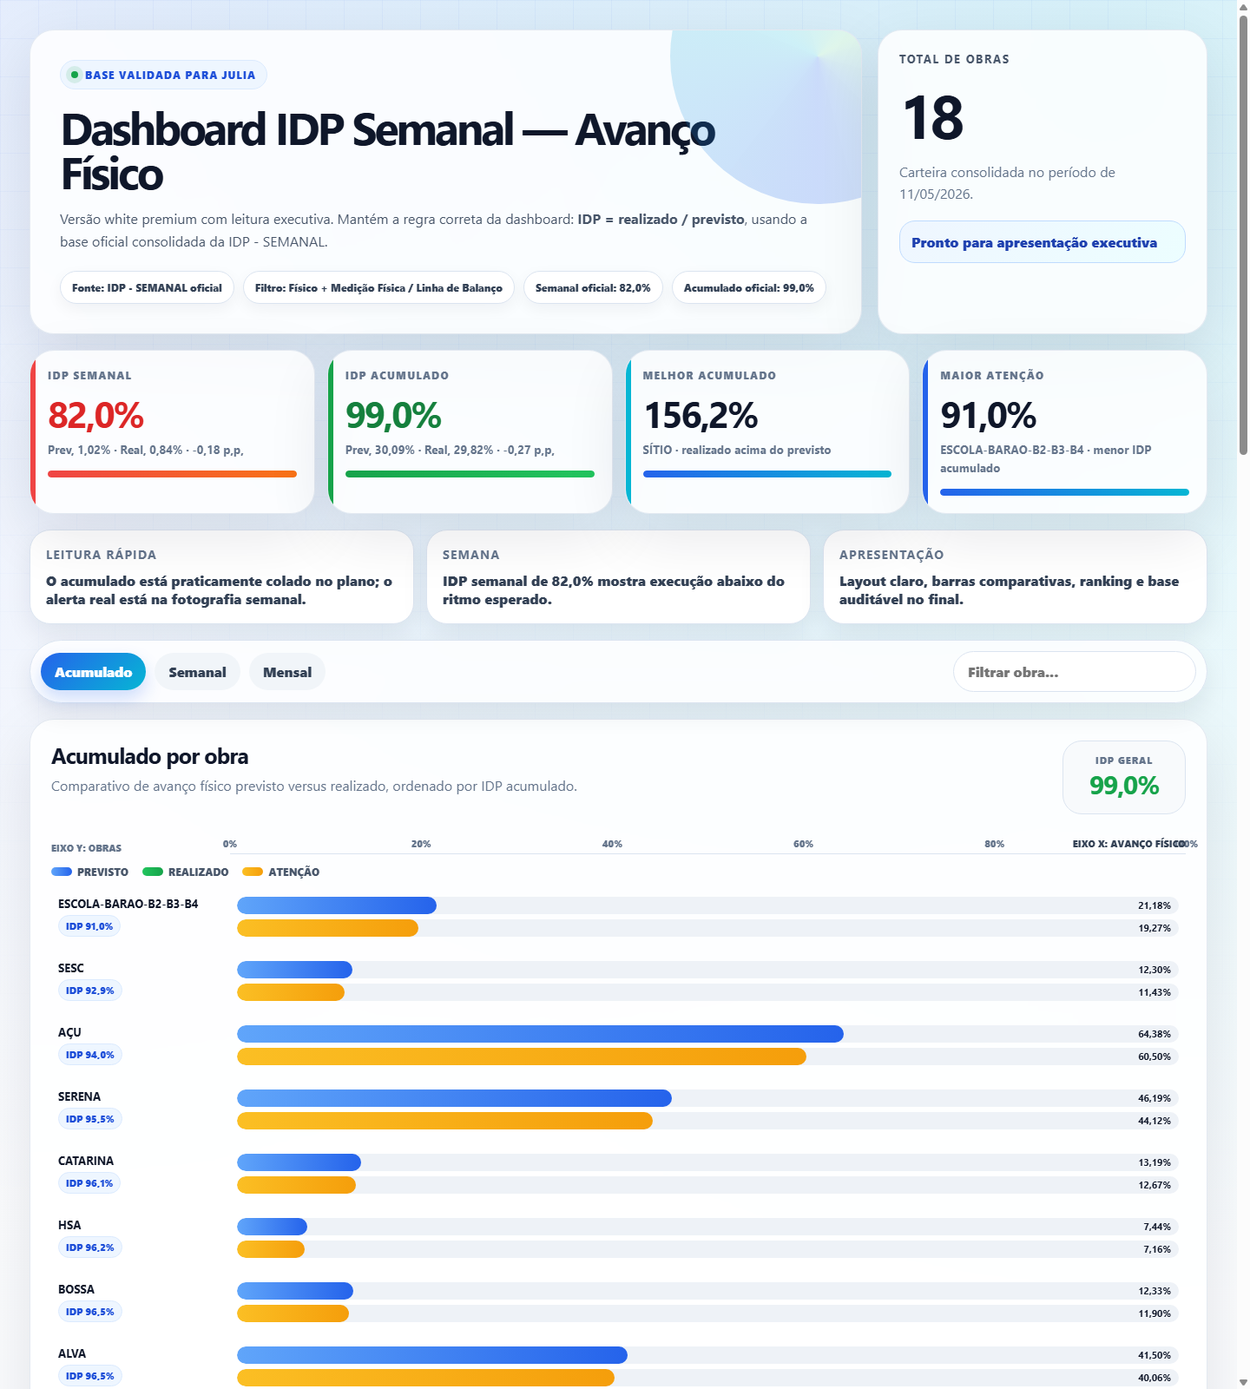
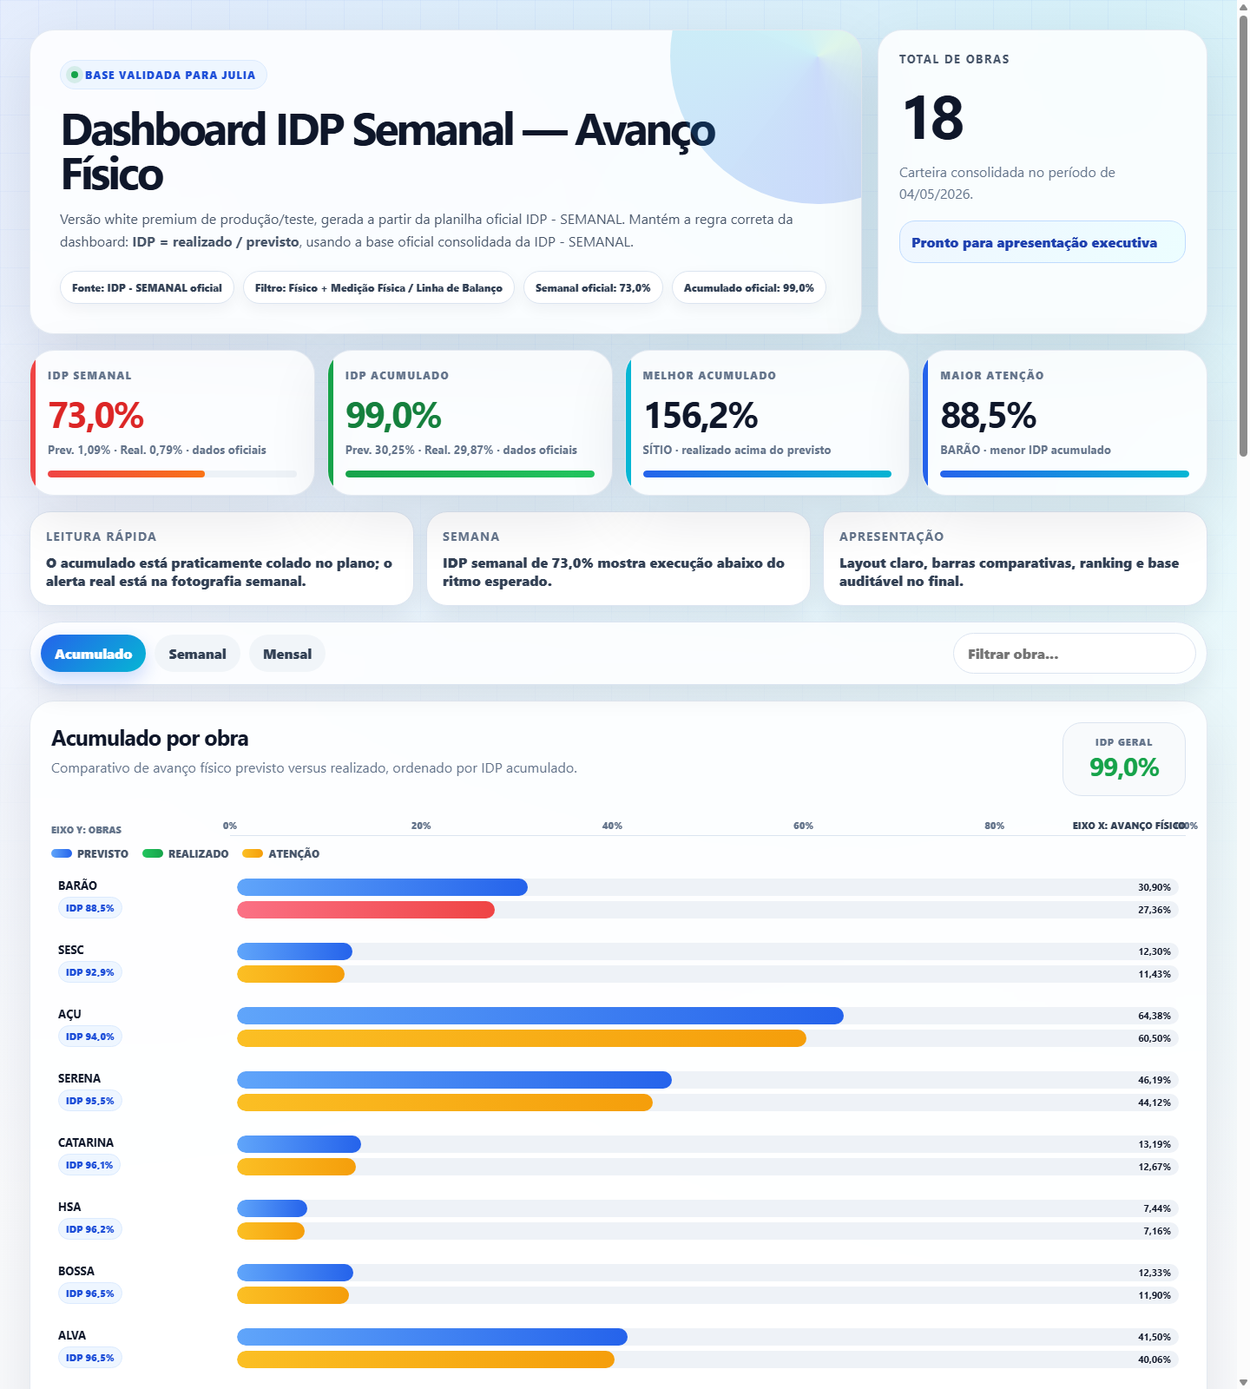
Restaura dashboard validado de 04-05

diff --git a/index.html b/index.html
@@ -10,27 +10,25 @@
 </head>
 <body>
 <div class="wrap">
-<section class="hero"><div class="glass hero-main"><span class="eyebrow"><i class="dot"></i> Base validada para Julia</span><h1>Dashboard IDP Semanal — Avanço Físico</h1><p class="lead">Versão white premium com leitura executiva. Mantém a regra correta da dashboard: <b>IDP = realizado / previsto</b>, usando a base oficial consolidada da IDP - SEMANAL.</p><div class="meta"><span>Fonte: IDP - SEMANAL oficial</span><span>Filtro: Físico + Medição Física / Linha de Balanço</span><span>Semanal oficial: 82,0%</span><span>Acumulado oficial: 99,0%</span></div></div><article class="score-card"><h3>Total de obras</h3><strong>18</strong><p>Carteira consolidada no período de 11/05/2026.</p><div class="seal">Pronto para apresentação executiva</div></article></section>
-<section class="kpis"><article class="kpi bad"><div class="label">IDP Semanal</div><strong>82,0%</strong><small>Prev, 1,02% · Real, 0,84% · -0,18 p,p,</small><div class="spark"><i style="width:82,0%"></i></div></article><article class="kpi ok"><div class="label">IDP Acumulado</div><strong>99,0%</strong><small>Prev, 30,09% · Real, 29,82% · -0,27 p,p,</small><div class="spark"><i style="width:99,0%"></i></div></article><article class="kpi neutral"><div class="label">Melhor acumulado</div><strong>156,2%</strong><small>SÍTIO · realizado acima do previsto</small><div class="spark"><i style="width:100%"></i></div></article><article class="kpi"><div class="label">Maior atenção</div><strong>91,0%</strong><small>ESCOLA-BARAO-B2-B3-B4 · menor IDP acumulado</small><div class="spark"><i style="width:91,0%"></i></div></article></section>
-<section class="insight"><div class="mini"><h3>Leitura rápida</h3><p>O acumulado está praticamente colado no plano; o alerta real está na fotografia semanal.</p></div><div class="mini"><h3>Semana</h3><p>IDP semanal de 82,0% mostra execução abaixo do ritmo esperado.</p></div><div class="mini"><h3>Apresentação</h3><p>Layout claro, barras comparativas, ranking e base auditável no final.</p></div></section>
+<section class="hero"><div class="glass hero-main"><span class="eyebrow"><i class="dot"></i> Base validada para Julia</span><h1>Dashboard IDP Semanal — Avanço Físico</h1><p class="lead">Versão white premium de produção/teste, gerada a partir da planilha oficial IDP - SEMANAL. Mantém a regra correta da dashboard: <b>IDP = realizado / previsto</b>, usando a base oficial consolidada da IDP - SEMANAL.</p><div class="meta"><span>Fonte: IDP - SEMANAL oficial</span><span>Filtro: Físico + Medição Física / Linha de Balanço</span><span>Semanal oficial: 73,0%</span><span>Acumulado oficial: 99,0%</span></div></div><article class="score-card"><h3>Total de obras</h3><strong>18</strong><p>Carteira consolidada no período de 04/05/2026.</p><div class="seal">Pronto para apresentação executiva</div></article></section>
+<section class="kpis"><article class="kpi bad"><div class="label">IDP Semanal</div><strong>73,0%</strong><small>Prev. 1,09% · Real. 0,79% · dados oficiais</small><div class="spark"><i style="width:63%"></i></div></article><article class="kpi ok"><div class="label">IDP Acumulado</div><strong>99,0%</strong><small>Prev. 30,25% · Real. 29,87% · dados oficiais</small><div class="spark"><i style="width:100%"></i></div></article><article class="kpi neutral"><div class="label">Melhor acumulado</div><strong>156,2%</strong><small>SÍTIO · realizado acima do previsto</small><div class="spark"><i style="width:100%"></i></div></article><article class="kpi"><div class="label">Maior atenção</div><strong>88,5%</strong><small>BARÃO · menor IDP acumulado</small><div class="spark"><i style="width:88,5%"></i></div></article></section>
+<section class="insight"><div class="mini"><h3>Leitura rápida</h3><p>O acumulado está praticamente colado no plano; o alerta real está na fotografia semanal.</p></div><div class="mini"><h3>Semana</h3><p>IDP semanal de 73,0% mostra execução abaixo do ritmo esperado.</p></div><div class="mini"><h3>Apresentação</h3><p>Layout claro, barras comparativas, ranking e base auditável no final.</p></div></section>
 <div class="controls"><button class="active" data-view="ac" onclick="showView('ac')">Acumulado</button><button data-view="sem" onclick="showView('sem')">Semanal</button><button data-view="mes" onclick="showView('mes')">Mensal</button><input placeholder="Filtrar obra..." oninput="filterObras(this.value)"></div>
 <section class="panel view" id="ac"><div class="panel-head"><div><h2>Acumulado por obra</h2><p>Comparativo de avanço físico previsto versus realizado, ordenado por IDP acumulado.</p></div><div class="pillbox ok"><span>IDP geral</span><b>99,0%</b></div></div><div class="axis"><b>Eixo Y: obras</b><div><span style="left:0%">0%</span><span style="left:20%">20%</span><span style="left:40%">40%</span><span style="left:60%">60%</span><span style="left:80%">80%</span><span style="left:100%">100%</span><em>Eixo X: avanço físico</em></div></div><div class="legend"><span><i class="prev"></i>Previsto</span><span><i class="real ok"></i>Realizado</span><span><i class="real warn"></i>Atenção</span></div><div class="bars-list" id="acBars"></div></section>
-<section class="panel view hidden" id="sem"><div class="panel-head"><div><h2>Semanal por obra</h2><p>Fotografia da semana em 11/05/2026. Conta: realizado / previsto.</p></div><div class="pillbox bad"><span>IDP geral</span><b>82,0%</b></div></div><div class="axis"><b>Eixo Y: obras</b><div><span style="left:0%">0%</span><span style="left:20%">2%</span><span style="left:40%">3%</span><span style="left:60%">5%</span><span style="left:80%">6%</span><span style="left:100%">8%</span><em>Eixo X: avanço físico</em></div></div><div class="legend"><span><i class="prev"></i>Previsto</span><span><i class="real bad"></i>Realizado</span><span><i class="real ok"></i>Acima do previsto</span></div><div class="bars-list" id="semBars"></div></section>
+<section class="panel view hidden" id="sem"><div class="panel-head"><div><h2>Semanal por obra</h2><p>Fotografia da semana em 04/05/2026. Conta: realizado / previsto.</p></div><div class="pillbox bad"><span>IDP geral</span><b>63,0%</b></div></div><div class="axis"><b>Eixo Y: obras</b><div><span style="left:0%">0%</span><span style="left:20%">2%</span><span style="left:40%">3%</span><span style="left:60%">5%</span><span style="left:80%">6%</span><span style="left:100%">8%</span><em>Eixo X: avanço físico</em></div></div><div class="legend"><span><i class="prev"></i>Previsto</span><span><i class="real bad"></i>Realizado</span><span><i class="real ok"></i>Acima do previsto</span></div><div class="bars-list" id="semBars"></div></section>
 <section class="panel view hidden" id="mes"><div class="panel-head"><div><h2>Mensal por obra</h2><p>Visão mensal consolidada da base oficial.</p></div><div class="pillbox bad"><span>IDP geral</span><b>15,0%</b></div></div><div class="axis"><b>Eixo Y: obras</b><div><span style="left:0%">0%</span><span style="left:20%">5%</span><span style="left:40%">10%</span><span style="left:60%">14%</span><span style="left:80%">19%</span><span style="left:100%">24%</span><em>Eixo X: avanço físico</em></div></div><div class="legend"><span><i class="prev"></i>Previsto</span><span><i class="real bad"></i>Realizado</span></div><div class="bars-list" id="mesBars"></div></section>
-<section class="grid2"><section class="panel"><div class="panel-head"><div><h2>Evolução do IDP semanal</h2><p>Histórico oficial limitado às últimas 6 semanas, para leitura mais limpa do eixo X/Y.</p></div><div class="pillbox"><span>Último</span><b>119,7%</b><small>+41,40 p,p,</small></div></div><svg class="line" viewBox="0 0 930 318" role="img" aria-label="Evolução do IDP semanal nas últimas 6 semanas"><defs><linearGradient id="gradLine" x1="0" x2="1"><stop offset="0" stop-color="#2563eb"/><stop offset=".55" stop-color="#06b6d4"/><stop offset="1" stop-color="#16a34a"/></linearGradient><linearGradient id="areaGrad" x1="0" y1="0" x2="0" y2="1"><stop offset="0" stop-color="#93c5fd" stop-opacity=".45"/><stop offset="1" stop-color="#93c5fd" stop-opacity="0"/></linearGradient></defs><g class="grid"><line x1="58" x2="900" y1="68" y2="68"/><text x="12" y="72">136%</text><line x1="58" x2="900" y1="112" y2="112"/><text x="12" y="116">102%</text><line x1="58" x2="900" y1="156" y2="156"/><text x="12" y="160">68%</text><line x1="58" x2="900" y1="200" y2="200"/><text x="12" y="204">34%</text><line x1="58" x2="900" y1="244" y2="244"/><text x="12" y="248">0%</text></g><polygon class="area" points="58,246 58.0,110.7 226.4,133.8 394.8,68.0 563.2,119.9 731.6,143.4 900.0,89.1 900,246"/><polyline points="58.0,110.7 226.4,133.8 394.8,68.0 563.2,119.9 731.6,143.4 900.0,89.1"/><circle cx="58.0" cy="110.7" r="6"><title>06/04: 103,2%</title></circle><circle cx="226.4" cy="133.8" r="6"><title>13/04: 85,5%</title></circle><circle cx="394.8" cy="68.0" r="6"><title>20/04: 135,8%</title></circle><circle cx="563.2" cy="119.9" r="6"><title>27/04: 96,1%</title></circle><circle cx="731.6" cy="143.4" r="6"><title>04/05: 78,3%</title></circle><circle cx="900.0" cy="89.1" r="6"><title>11/05: 119,7%</title></circle><g class="xlabels"><text x="58.0" y="292">06/04</text><text x="226.4" y="292">13/04</text><text x="394.8" y="292">20/04</text><text x="563.2" y="292">27/04</text><text x="731.6" y="292">04/05</text><text x="900.0" y="292">11/05</text></g><text class="axis-title" x="760" y="309">Eixo X: últimas 6 semanas</text><text class="axis-title" x="8" y="24">Eixo Y: IDP</text></svg></section><section class="panel"><h2>Ranking — pontos de atenção</h2><p style="margin-bottom:14px">Menores IDPs acumulados para acompanhamento.</p><div class="ranks"><div class="rank warn"><span>#1</span><div><b>NAVSHIP</b><small>IDP 89,7% · Prev. 41,4% / Real. 37,2%</small></div></div><div class="rank warn"><span>#2</span><div><b>SESC</b><small>IDP 93,0% · Prev. 12,0% / Real. 11,1%</small></div></div><div class="rank warn"><span>#3</span><div><b>AÇU</b><small>IDP 95,4% · Prev. 63,0% / Real. 60,1%</small></div></div><div class="rank warn"><span>#4</span><div><b>SERENA</b><small>IDP 96,1% · Prev. 45,0% / Real. 43,2%</small></div></div><div class="rank warn"><span>#5</span><div><b>BARÃO</b><small>IDP 96,4% · Prev. 100,0% / Real. 96,4%</small></div></div><div class="rank warn"><span>#6</span><div><b>BOSSA</b><small>IDP 97,0% · Prev. 11,9% / Real. 11,5%</small></div></div></div></section></section>
+<section class="grid2"><section class="panel"><div class="panel-head"><div><h2>Evolução do IDP semanal</h2><p>Histórico oficial limitado às últimas 6 semanas, para leitura mais limpa do eixo X/Y.</p></div><div class="pillbox"><span>Último</span><b>133,0%</b><small>+55,24 p,p,</small></div></div><svg class="line" viewBox="0 0 930 318" role="img" aria-label="Evolução do IDP semanal nas últimas 6 semanas"><defs><linearGradient id="gradLine" x1="0" x2="1"><stop offset="0" stop-color="#2563eb"/><stop offset=".55" stop-color="#06b6d4"/><stop offset="1" stop-color="#16a34a"/></linearGradient><linearGradient id="areaGrad" x1="0" y1="0" x2="0" y2="1"><stop offset="0" stop-color="#93c5fd" stop-opacity=".45"/><stop offset="1" stop-color="#93c5fd" stop-opacity="0"/></linearGradient></defs><g class="grid"><line x1="58" x2="900" y1="68" y2="68"/><text x="12" y="72">136%</text><line x1="58" x2="900" y1="112" y2="112"/><text x="12" y="116">102%</text><line x1="58" x2="900" y1="156" y2="156"/><text x="12" y="160">68%</text><line x1="58" x2="900" y1="200" y2="200"/><text x="12" y="204">34%</text><line x1="58" x2="900" y1="244" y2="244"/><text x="12" y="248">0%</text></g><polygon class="area" points="58,246 58.0,110.5 226.4,133.2 394.8,68.0 563.2,119.8 731.6,144.0 900.0,71.5 900,246"/><polyline points="58.0,110.5 226.4,133.2 394.8,68.0 563.2,119.8 731.6,144.0 900.0,71.5"/><circle cx="58.0" cy="110.5" r="6"><title>06/04: 103,2%</title></circle><circle cx="226.4" cy="133.2" r="6"><title>13/04: 85,9%</title></circle><circle cx="394.8" cy="68.0" r="6"><title>20/04: 135,6%</title></circle><circle cx="563.2" cy="119.8" r="6"><title>27/04: 96,1%</title></circle><circle cx="731.6" cy="144.0" r="6"><title>04/05: 77,7%</title></circle><circle cx="900.0" cy="71.5" r="6"><title>11/05: 133,0%</title></circle><g class="xlabels"><text x="58.0" y="292">06/04</text><text x="226.4" y="292">13/04</text><text x="394.8" y="292">20/04</text><text x="563.2" y="292">27/04</text><text x="731.6" y="292">04/05</text><text x="900.0" y="292">11/05</text></g><text class="axis-title" x="760" y="309">Eixo X: últimas 6 semanas</text><text class="axis-title" x="8" y="24">Eixo Y: IDP</text></svg></section><section class="panel"><h2>Ranking — pontos de atenção</h2><p style="margin-bottom:14px">Menores IDPs acumulados para acompanhamento.</p><div class="ranks"><div class="rank warn"><span>#1</span><div><b>NAVSHIP</b><small>IDP 89,7% · Prev. 41,4% / Real. 37,2%</small></div></div><div class="rank warn"><span>#2</span><div><b>SESC</b><small>IDP 93,0% · Prev. 12,0% / Real. 11,1%</small></div></div><div class="rank warn"><span>#3</span><div><b>AÇU</b><small>IDP 95,4% · Prev. 63,0% / Real. 60,1%</small></div></div><div class="rank warn"><span>#4</span><div><b>SERENA</b><small>IDP 96,1% · Prev. 45,0% / Real. 43,2%</small></div></div><div class="rank warn"><span>#5</span><div><b>BARÃO</b><small>IDP 96,4% · Prev. 100,0% / Real. 96,4%</small></div></div><div class="rank warn"><span>#6</span><div><b>BOSSA</b><small>IDP 97,0% · Prev. 11,9% / Real. 11,5%</small></div></div></div></section></section>
 <section class="grid2"><section class="panel"><h2>Evolução do IDP mensal</h2><p>Histórico mensal oficial quando houver mais períodos.</p><div class="empty">Histórico mensal ainda tem apenas um período.</div></section><section class="panel"><h2>Melhores IDPs acumulados</h2><div class="ranks"><div class="rank ok"><span>#1</span><div><b>SÍTIO</b><small>IDP 152,7% · Prev. 48,9% / Real. 74,6%</small></div></div><div class="rank ok"><span>#2</span><div><b>BMW</b><small>IDP 143,7% · Prev. 3,5% / Real. 5,1%</small></div></div><div class="rank ok"><span>#3</span><div><b>BERMO</b><small>IDP 106,3% · Prev. 31,8% / Real. 33,8%</small></div></div><div class="rank ok"><span>#4</span><div><b>RESERVA</b><small>IDP 103,0% · Prev. 48,8% / Real. 50,3%</small></div></div><div class="rank ok"><span>#5</span><div><b>MARÉ</b><small>IDP 102,9% · Prev. 13,3% / Real. 13,7%</small></div></div></div></section></section>
-<section class="panel"><h2>Planilha base — aba Semanal</h2><p style="margin-bottom:16px">Base auditável exibida no final para conferência dos números.</p><div class="base-filters"><select id="baseObraFilter" onchange="filterBaseTable()"><option value="">Todas as obras</option></select><select id="baseStatusFilter" onchange="filterBaseTable()"><option value="">Todos os status</option><option value="bad">Crítico</option><option value="warn">Atenção</option><option value="ok">OK</option></select></div><div class="table-wrap"><table id="baseTable"><thead><tr><th>Obra</th><th>Prev. sem.</th><th>Real. sem.</th><th>IDP sem.</th><th>Prev. mês</th><th>Real. mês</th><th>IDP mês</th><th>Prev. acum.</th><th>Real. acum.</th><th>IDP acum.</th></tr></thead><tbody></tbody></table></div></section><div class="footnote">Dashboard IDP Semanal · versão white premium · dados reais lidos da IDP - SEMANAL oficial em 18/05/2026 17:09</div></div>
+<section class="panel"><h2>Planilha base — aba Semanal</h2><p style="margin-bottom:16px">Base auditável exibida no final para conferência dos números.</p><div class="base-filters"><select id="baseObraFilter" onchange="filterBaseTable()"><option value="">Todas as obras</option></select><select id="baseStatusFilter" onchange="filterBaseTable()"><option value="">Todos os status</option><option value="bad">Crítico</option><option value="warn">Atenção</option><option value="ok">OK</option></select></div><div class="table-wrap"><table id="baseTable"><thead><tr><th>Obra</th><th>Prev. sem.</th><th>Real. sem.</th><th>IDP sem.</th><th>Prev. mês</th><th>Real. mês</th><th>IDP mês</th><th>Prev. acum.</th><th>Real. acum.</th><th>IDP acum.</th></tr></thead><tbody></tbody></table></div></section><div class="footnote">Dashboard IDP Semanal · versão white premium · dados reais lidos da IDP - SEMANAL oficial em 18/05/2026 15:31</div></div>
 <script>
-const rows=[["BERMO",3.63,2.23,61.4325,14.56,4.31,29.6016,35.41,36.0,101.6662],["AÇU",1.49,0.48,32.2148,6.23,0.91,14.6067,64.38,60.5,93.9733],["MARÉ",0.23,0.2,86.9565,0.92,0.46,50.0,13.5,13.88,102.8148],["HSA",0.31,0.24,77.4194,1.23,0.46,37.3984,7.44,7.16,96.2366],["NAVSHIP",5.25,14.28,272.0,24.07,17.07,70.9182,46.7,51.46,110.1927],["SÍTIO",2.74,5.97,217.8832,12.71,13.57,106.7663,51.59,80.56,156.1543],["PANORAMA",0.62,0.64,103.2258,2.68,1.07,39.9254,37.94,38.88,102.4776],["ALVA",1.55,0.65,41.9355,6.5,1.36,20.9231,41.5,40.06,96.5301],["SERENA",1.21,0.9,74.3802,4.64,1.58,34.0517,46.19,44.12,95.5185],["VERTIKAL",0.3,0.33,110.0,1.06,0.51,48.1132,7.51,7.52,100.1332],["CATARINA",0.41,0.16,39.0244,1.69,0.49,28.9941,13.19,12.67,96.0576],["BOSSA",0.43,0.36,83.7209,1.88,0.44,23.4043,12.33,11.9,96.5126],["HALLIBURTON",3.98,3.35,84.1709,9.22,5.77,62.5813,96.86,96.23,99.3496],["SESI",2.28,1.39,60.9649,9.64,3.48,36.0996,51.95,50.72,97.6323],["RESERVA",1.71,0.77,45.0292,7.05,1.51,21.4184,49.69,51.08,102.7973],["BMW",0.73,0.33,45.2055,2.89,0.83,28.7197,4.27,5.43,127.1663],["SESC",0.33,0.3,90.9091,1.65,0.34,20.6061,12.3,11.43,92.9268],["ESCOLA-BARAO-B2-B3-B4",2.34,2.77,118.3761,9.72,3.13,32.2016,21.18,19.27,90.9821]];
+const rows=[["SESI",2.25,2.09,92.8889,9.64,2.09,21.6805,49.67,49.33,99.3155],["SÍTIO",2.74,5.97,217.8832,12.71,13.57,106.7663,51.59,80.56,156.1543],["AÇU",1.49,0.48,32.2148,6.23,0.91,14.6067,64.38,60.5,93.9733],["SESC",0.33,0.3,90.9091,1.65,0.34,20.6061,12.3,11.43,92.9268],["VERTIKAL",0.3,0.33,110.0,1.06,0.51,48.1132,7.51,7.52,100.1332],["ALVA",1.55,0.65,41.9355,6.5,1.36,20.9231,41.5,40.06,96.5301],["BERMO",3.63,2.23,61.4325,14.56,4.31,29.6016,35.41,36.0,101.6662],["BOSSA",0.43,0.36,83.7209,1.88,0.44,23.4043,12.33,11.9,96.5126],["RESERVA",1.71,0.77,45.0292,7.05,1.51,21.4184,49.69,51.08,102.7973],["HALLIBURTON",2.1,2.42,115.2381,9.22,2.42,26.2473,92.87,92.88,100.0108],["BMW",0.73,0.33,45.2055,2.89,0.83,28.7197,4.27,5.43,127.1663],["SERENA",1.21,0.9,74.3802,4.64,1.58,34.0517,46.19,44.12,95.5185],["PANORAMA",0.62,0.64,103.2258,2.68,1.07,39.9254,37.94,38.88,102.4776],["MARÉ",0.23,0.2,86.9565,0.92,0.46,50.0,13.5,13.88,102.8148],["NAVSHIP",5.25,14.28,272.0,24.07,17.07,70.9182,46.7,51.46,110.1927],["BARÃO",2.96,0.6,20.2703,11.74,0.6,5.1107,30.9,27.36,88.5437],["CATARINA",0.41,0.16,39.0244,1.69,0.49,28.9941,13.19,12.67,96.0576],["HSA",0.31,0.24,77.4194,1.23,0.46,37.3984,7.44,7.16,96.2366]];
 const br=(n,d=2)=>n.toFixed(d).replace('.',',')+'%'; const cls=idp=>idp>=98?'ok':idp>=90?'warn':'bad';
 function barHTML(r,type){let [obra,ps,rs,is,pm,rm,im,pa,ra,ia]=r;let cfg={ac:[pa,ra,ia,100],sem:[ps,rs,is,7.6],mes:[pm,rm,im,24.07]}[type];let [prev,real,idp,max]=cfg;let pW=Math.max(1,Math.min(100,prev/max*100));let rW=Math.max(1,Math.min(100,real/max*100));return `<div class="bar-row" data-obra="${obra.toLowerCase()}"><div class="name"><b>${obra}</b><small>IDP ${br(idp,1)}</small></div><div class="barbox"><div class="barline"><i class="prev" style="width:${pW}%"></i><strong>${br(prev)}</strong></div><div class="barline"><i class="real ${cls(idp)}" style="width:${rW}%"></i><strong>${br(real)}</strong></div></div></div>`}
 function renderBars(){document.getElementById('acBars').innerHTML=[...rows].sort((a,b)=>a[9]-b[9]).map(r=>barHTML(r,'ac')).join('');document.getElementById('semBars').innerHTML=[...rows].sort((a,b)=>a[3]-b[3]).map(r=>barHTML(r,'sem')).join('');document.getElementById('mesBars').innerHTML=[...rows].sort((a,b)=>a[6]-b[6]).map(r=>barHTML(r,'mes')).join('')}
-function renderTable(){document.querySelector('#baseTable tbody').innerHTML=rows.map(r=>{let [o,ps,rs,is,pm,rm,im,pa,ra,ia]=r;return `<tr data-obra="${o.toLowerCase()}" data-status="${cls(ia)}"><td><b>${o}</b><small>11/05/2026</small></td><td>${br(ps)}</td><td>${br(rs)}</td><td><span class="tag ${cls(is)}">${br(is,1)}</span></td><td>${br(pm)}</td><td>${br(rm)}</td><td><span class="tag ${cls(im)}">${br(im,1)}</span></td><td>${br(pa)}</td><td>${br(ra)}</td><td><span class="tag ${cls(ia)}">${br(ia,1)}</span></td></tr>`}).join(''); renderBaseFilters(); filterBaseTable();}
+function renderTable(){document.querySelector('#baseTable tbody').innerHTML=rows.map(r=>{let [o,ps,rs,is,pm,rm,im,pa,ra,ia]=r;return `<tr data-obra="${o.toLowerCase()}" data-status="${cls(ia)}"><td><b>${o}</b><small>04/05/2026</small></td><td>${br(ps)}</td><td>${br(rs)}</td><td><span class="tag ${cls(is)}">${br(is,1)}</span></td><td>${br(pm)}</td><td>${br(rm)}</td><td><span class="tag ${cls(im)}">${br(im,1)}</span></td><td>${br(pa)}</td><td>${br(ra)}</td><td><span class="tag ${cls(ia)}">${br(ia,1)}</span></td></tr>`}).join(''); renderBaseFilters(); filterBaseTable();}
 
 function renderBaseFilters(){let s=document.getElementById('baseObraFilter'); if(!s||s.dataset.ready)return; [...rows].map(r=>r[0]).sort((a,b)=>a.localeCompare(b,'pt-BR')).forEach(o=>{let opt=document.createElement('option');opt.value=o.toLowerCase().normalize('NFD').replace(/[̀-ͯ]/g,'');opt.textContent=o;s.appendChild(opt)}); s.dataset.ready='1'}
 function filterBaseTable(){let obra=(document.getElementById('baseObraFilter')?.value||'');let status=(document.getElementById('baseStatusFilter')?.value||'');document.querySelectorAll('#baseTable tbody tr').forEach(r=>{let okObra=!obra||(r.dataset.obra||'').toLowerCase().normalize('NFD').replace(/[̀-ͯ]/g,'')===obra;let okStatus=!status||r.dataset.status===status;r.classList.toggle('hidden',!(okObra&&okStatus))})}
-function renderBaseFilters(){let s=document.getElementById('baseObraFilter'); if(!s||s.dataset.ready)return; [...rows].map(r=>r[0]).sort((a,b)=>a.localeCompare(b,'pt-BR')).forEach(o=>{let opt=document.createElement('option');opt.value=o.toLowerCase().normalize('NFD').replace(/[\u0300-\u036f]/g,'');opt.textContent=o;s.appendChild(opt)}); s.dataset.ready='1'}
-function filterBaseTable(){let obra=(document.getElementById('baseObraFilter')?.value||'');let status=(document.getElementById('baseStatusFilter')?.value||'');document.querySelectorAll('#baseTable tbody tr').forEach(r=>{let okObra=!obra||(r.dataset.obra||'').toLowerCase().normalize('NFD').replace(/[\u0300-\u036f]/g,'')===obra;let okStatus=!status||r.dataset.status===status;r.classList.toggle('hidden',!(okObra&&okStatus))})}
 function showView(id){document.querySelectorAll('.view').forEach(x=>x.classList.add('hidden'));document.getElementById(id).classList.remove('hidden');document.querySelectorAll('.controls button[data-view]').forEach(b=>b.classList.toggle('active',b.dataset.view===id));filterObras(document.querySelector('.controls input').value)}
 function filterObras(q){q=(q||'').toLowerCase().normalize('NFD').replace(/[\u0300-\u036f]/g,'');document.querySelectorAll('.bar-row,#baseTable tbody tr').forEach(r=>{let v=(r.dataset.obra||'').toLowerCase().normalize('NFD').replace(/[\u0300-\u036f]/g,'');r.classList.toggle('hidden',q&&!v.includes(q))})}
 renderBars();renderTable();
